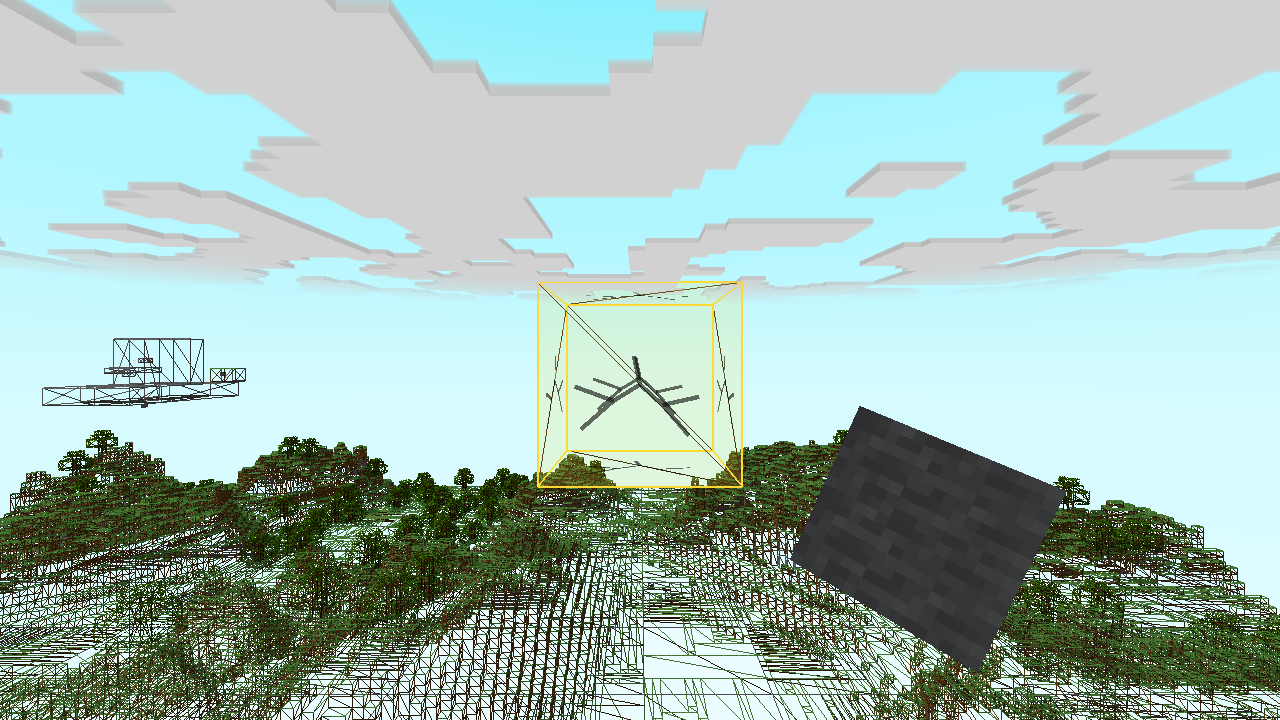
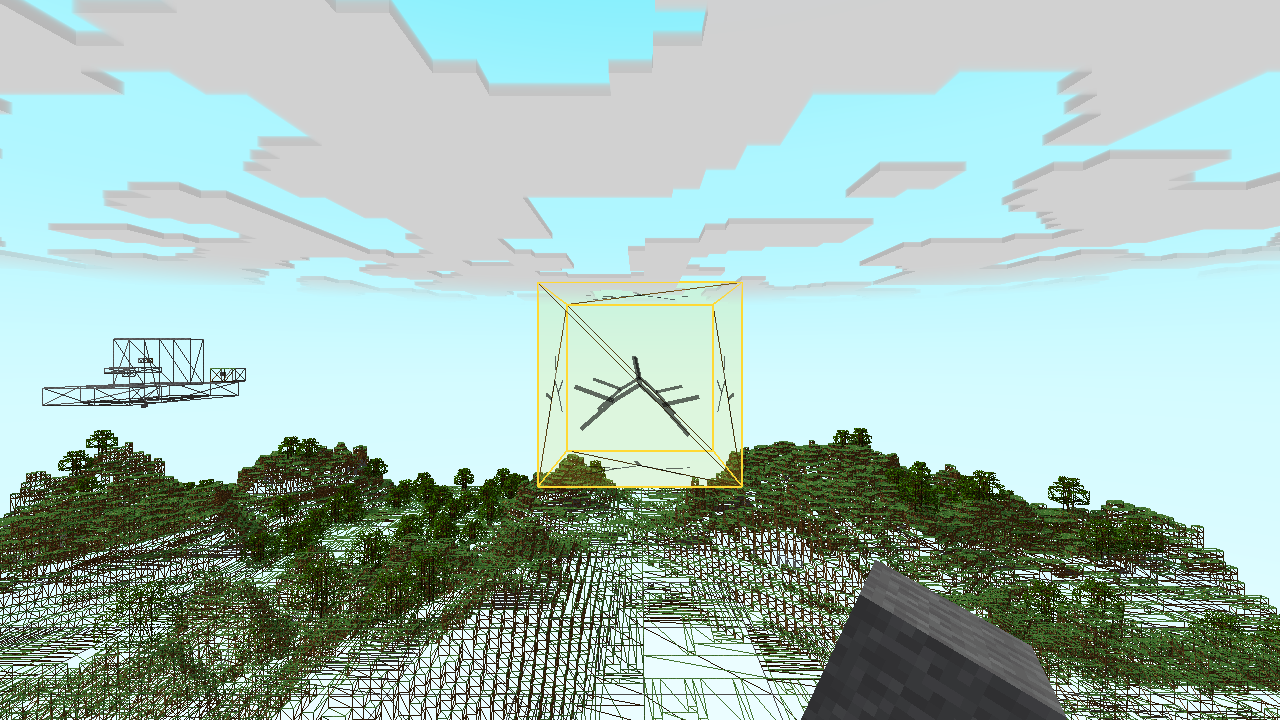
Lower first-person held blocks

Changed region(s): [[0.625, 0.55, 0.8438, 1.0]]

diff --git a/src/graphics/item_renderer.c b/src/graphics/item_renderer.c
@@ -430,7 +430,7 @@ static void compositeHeld(const ItemRenderer* renderer, GLuint texture, const GL
   glDrawArrays(GL_TRIANGLES, renderer->quadFirst, 6);
 }
 
-static void heldGripTransform(Mat4 model, int hand, const PlayerModelPose* pose, float aspect) {
+static void heldGripTransform(Mat4 model, int hand, const PlayerModelPose* pose, float aspect, bool block) {
   float fit = fminf(1, aspect / 1.3f);
   PlayerModelSwing attack = playerModelSwing(pose->punch);
   PlayerModelSwing mainPlacement = playerModelSwing(pose->placeMain);
@@ -440,10 +440,11 @@ static void heldGripTransform(Mat4 model, int hand, const PlayerModelPose* pose,
   PlayerModelSwing strike = hand ? (PlayerModelSwing){0} : attack;
   PlayerModelSwing placement = hand ? offhandPlacement : mainPlacement;
   mat4_identity(model);
-  // Keep the held model beside and below aim instead of presenting a large,
-  // square-on block. The steeper yaw exposes block top/side faces while the
-  // compact scale keeps the center of the view clear.
-  translate(model, (Vec3){side * (0.48f * aspect - (0.18f * strike.reach + 0.10f * placement.reach) * fit), -0.32f + bob + 0.12f * strike.lift - 0.10f * placement.arc,
+  // Placeable blocks enter from below the viewport like Minecraft's first-person
+  // viewmodel, leaving roughly their upper half visible at rest. Equipment keeps
+  // the higher grip because its skinned arm is anchored to this same transform.
+  float restingY = block ? -0.80f - 0.12f * (1.0f - fit) : -0.32f;
+  translate(model, (Vec3){side * (0.48f * aspect - (0.18f * strike.reach + 0.10f * placement.reach) * fit), restingY + bob + 0.12f * strike.lift - 0.10f * placement.arc,
                           -1.25f - 0.18f * strike.arc - 0.20f * placement.arc});
   rotate(model, 0, 0.26f - 0.48f * strike.arc + 0.35f * placement.arc);
   rotate(model, 1, side * (-0.70f + 0.35f * strike.reach + 0.15f * placement.reach));
@@ -488,9 +489,10 @@ bool renderHeldItems(ItemRenderer* renderer, const PlayerRenderer* playerRendere
   for (int hand = 0; hand < 2; hand++) {
     if (!hasItem(hands[hand]))
       continue;
+    bool block = !heldItemShowsArm(hands[hand]);
     Mat4 grip;
-    heldGripTransform(grip, hand, pose, aspect);
-    if (heldItemShowsArm(hands[hand])) {
+    heldGripTransform(grip, hand, pose, aspect, block);
+    if (!block) {
       Mat4 arm;
       heldArmTransform(arm, grip, hand);
       renderPlayerViewArm(playerRenderer, hand ? PLAYER_MODEL_LEFT_ARM : PLAYER_MODEL_RIGHT_ARM, projection, arm, daylight, false);
@@ -504,7 +506,7 @@ bool renderHeldItems(ItemRenderer* renderer, const PlayerRenderer* playerRendere
       if (!hasItem(hands[hand]) || !heldItemShowsArm(hands[hand]))
         continue;
       Mat4 grip, arm;
-      heldGripTransform(grip, hand, pose, aspect);
+      heldGripTransform(grip, hand, pose, aspect, false);
       heldArmTransform(arm, grip, hand);
       renderPlayerViewArm(playerRenderer, hand ? PLAYER_MODEL_LEFT_ARM : PLAYER_MODEL_RIGHT_ARM, projection, arm, daylight, true);
     }

diff --git a/tests/item_render_checks.h b/tests/item_render_checks.h
@@ -304,6 +304,31 @@ static unsigned itemTestCountHeldArmLayer(const unsigned char* pixels, int width
   return count;
 }
 
+static bool itemTestHeldBlockFraming(const float* depth, int width, int height, int hand) {
+  int minX = width, maxX = -1, minY = height, maxY = -1;
+  unsigned visible = 0, bottom = 0;
+  for (int y = 0; y < height; y++)
+    for (int x = 0; x < width; x++) {
+      if ((!hand && x < width / 2) || (hand && x >= width / 2))
+        continue;
+      if (depth[(size_t)y * width + x] >= 0.999f)
+        continue;
+      visible++;
+      bottom += y == 0;
+      minX = x < minX ? x : minX;
+      maxX = x > maxX ? x : maxX;
+      minY = y < minY ? y : minY;
+      maxY = y > maxY ? y : maxY;
+    }
+  if (!visible || maxX < minX || maxY < minY)
+    return false;
+  int spanX = maxX - minX + 1, spanY = maxY - minY + 1;
+  bool framed = minY == 0 && bottom >= (unsigned)(spanX / 4) && spanY * 20 >= spanX * 7 && spanY * 20 <= spanX * 17;
+  if (!framed)
+    fprintf(stderr, "Held block framing failed: %dx%d hand=%d visible=%u bounds=%d,%d..%d,%d bottom=%u\n", width, height, hand, visible, minX, minY, maxX, maxY, bottom);
+  return framed;
+}
+
 static bool itemTestHeld(ItemRenderer* renderer, const PlayerRenderer* playerRenderer, ItemTestTarget* target) {
   const int sizes[][2] = {{320, 240}, {180, 320}, {960, 540}};
   DayNightState light = itemTestNeutralLight();
@@ -337,6 +362,16 @@ static bool itemTestHeld(ItemRenderer* renderer, const PlayerRenderer* playerRen
     ok &= rightArm == 0 && leftArm == 0;
     ok &= itemTestCountHeldArmLayer(pixels, width, height, 0, 0) == 0 && itemTestCountHeldArmLayer(pixels, width, height, 0, 1) == 0;
     ok &= itemTestCountHeldArmLayer(pixels, width, height, 1, 0) == 0 && itemTestCountHeldArmLayer(pixels, width, height, 1, 1) == 0;
+    for (int hand = 0; hand < 2; hand++) {
+      itemTestClear(.375);
+      ItemStack framingMain = hand ? (ItemStack){0} : (ItemStack){ITEM_STONE, 1};
+      ItemStack framingOffhand = hand ? (ItemStack){ITEM_STONE, 1} : (ItemStack){0};
+      ok &= renderHeldItems(renderer, playerRenderer, framingMain, framingOffhand, &pose, (float)width / height, &light);
+      glBindFramebuffer(GL_READ_FRAMEBUFFER, renderer->heldTarget.framebuffer);
+      itemTestRead(0, 0, width, height, GL_DEPTH_COMPONENT, GL_FLOAT, after);
+      glBindFramebuffer(GL_READ_FRAMEBUFFER, target->framebuffer);
+      ok &= itemTestHeldBlockFraming(after, width, height, hand);
+    }
     // A block-only viewmodel must not leave hidden arm fragments in the private
     // target, and compositing that target must continue to preserve world depth.
     glBindFramebuffer(GL_READ_FRAMEBUFFER, renderer->heldTarget.framebuffer);

diff --git a/docs/player-skins.md b/docs/player-skins.md
@@ -104,14 +104,18 @@ Nonempty hands use the shared [3D item models](inventory.md#rendering-and-saves)
 First-person placeable blocks render alone in the private held-item target, so no
 arm or hand is visible beside the block. Non-placeable equipment can include the
 matching right/left skinned arm in that same private depth target. Walking,
-breaking, and placement still move the held model through its viewmodel path.
+breaking, and placement still move the held model through its viewmodel path. At
+rest, a placeable block enters from the lower corner with roughly half of its
+projected height below the viewport; narrow portrait views lower it slightly more
+to preserve the same composition.
 The private pass never changes the world depth buffer. World and inventory-preview
 items follow the corresponding arm's joint transforms, including the root pose.
 
 ![Held stone block without a first-person arm](held-block-arm.png)
 
-This native application fixture shows the lower-right held stone by itself. The
-matching offhand pose is mirrored and also omits the arm; an offhand block
+This native application fixture shows the lower-right held stone by itself, with
+its lower half clipped below the viewport. The matching offhand pose is mirrored
+and also omits the arm; an offhand block
 suppresses the otherwise empty main-hand fallback. The normal bare-arm pose still
 appears for an empty main hand when no offhand block replaces it. Regression
 captures also cover intermediate breaking and placement poses, including the

diff --git a/CONTRIBUTING.md b/CONTRIBUTING.md
@@ -115,9 +115,11 @@ PNGs; primitive equipment models do not complete the dedicated-artwork backlog.
 
 Check first-person held blocks at rest and throughout breaking and placement,
 including early/late phases, offhand placement, and a consumed last item. A
-placeable block must show no arm or hand. Non-placeable equipment still uses its
-skinned arm and sleeve, with fractional sleeves blended after opaque geometry in
-the private held-item target. Surface cracks follow gameplay breaking progress
+placeable block must show no arm or hand. At rest, roughly half of the projected
+block height should remain below the lower viewport edge in landscape and portrait.
+Non-placeable equipment still uses its skinned arm and sleeve, with fractional
+sleeves blended after opaque geometry in the private held-item target. Surface
+cracks follow gameplay breaking progress
 and must vanish after removal, cancellation, or a target/material change. Inspect
 leaf cracks over transparent texels and repeat in wireframe. The corresponding
 item, cutout/shadow, crack, and live application regressions run under `-Test`.

diff --git a/README.md b/README.md
@@ -240,8 +240,10 @@ or changing its material discards partial progress. Changing hotbar slots,
 right-clicking, toggling flight, or pausing also cancels the hold and requires
 a fresh press. All current slots use the same hand rates in walking and flight.
 Holding through completion starts the next target from zero; excess time never
-carries over. The visible held block follows an asymmetric strike and recovery
-path while breaking, so the recovery does not retrace the strike. Successful
+carries over. A resting held block enters from the lower corner with roughly
+half of its projected height below the viewport. While breaking, it follows an
+asymmetric strike and recovery path so the recovery does not retrace the strike.
+Successful
 placement plays a short swing in the hand that supplied the block; the final
 item in a stack remains visible until that swing finishes. Tools and their speed
 modifiers remain planned. See
